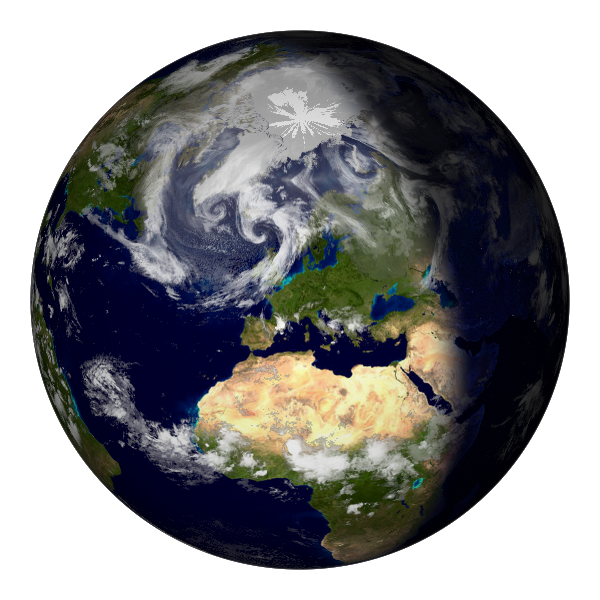
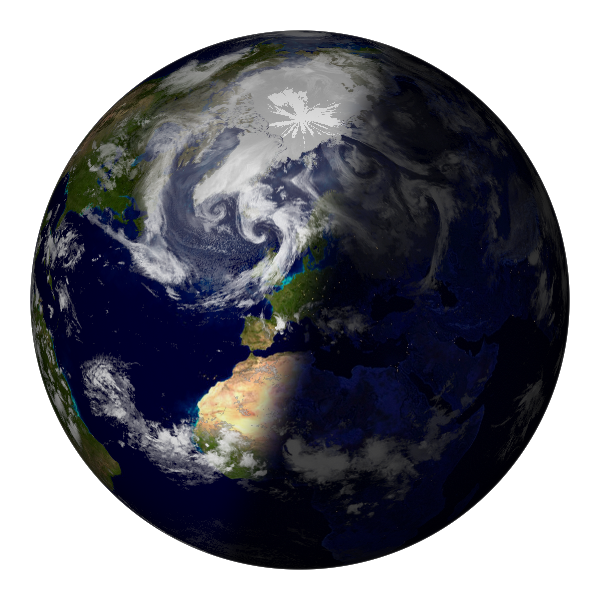
Adding fade on the image transition

Changed region(s): [[0.39, 0.03, 0.78, 0.96]]

diff --git a/MMM-Xplanet.js b/MMM-Xplanet.js
@@ -9,6 +9,7 @@ Module.register("MMM-Xplanet", {
 		updateInterval: 10*60*1000, // In milliseconds
 		x: 200, // x dimension
 		y: 200, // y dimension
+    animationSpeed: 2000,
 	},
 
 	requiresVersion: "2.1.0", // Required version of MagicMirror
@@ -17,10 +18,11 @@ Module.register("MMM-Xplanet", {
   // MM start function
 	start: function() {
 		var self = this;
+    self.updateDom(self.config.animationSpeed);
 
 		// Schedule update timer.
 		setInterval(function() {
-			self.updateDom();
+			self.updateDom(self.config.animationSpeed);
 		}, this.config.updateInterval);
 	},
 
